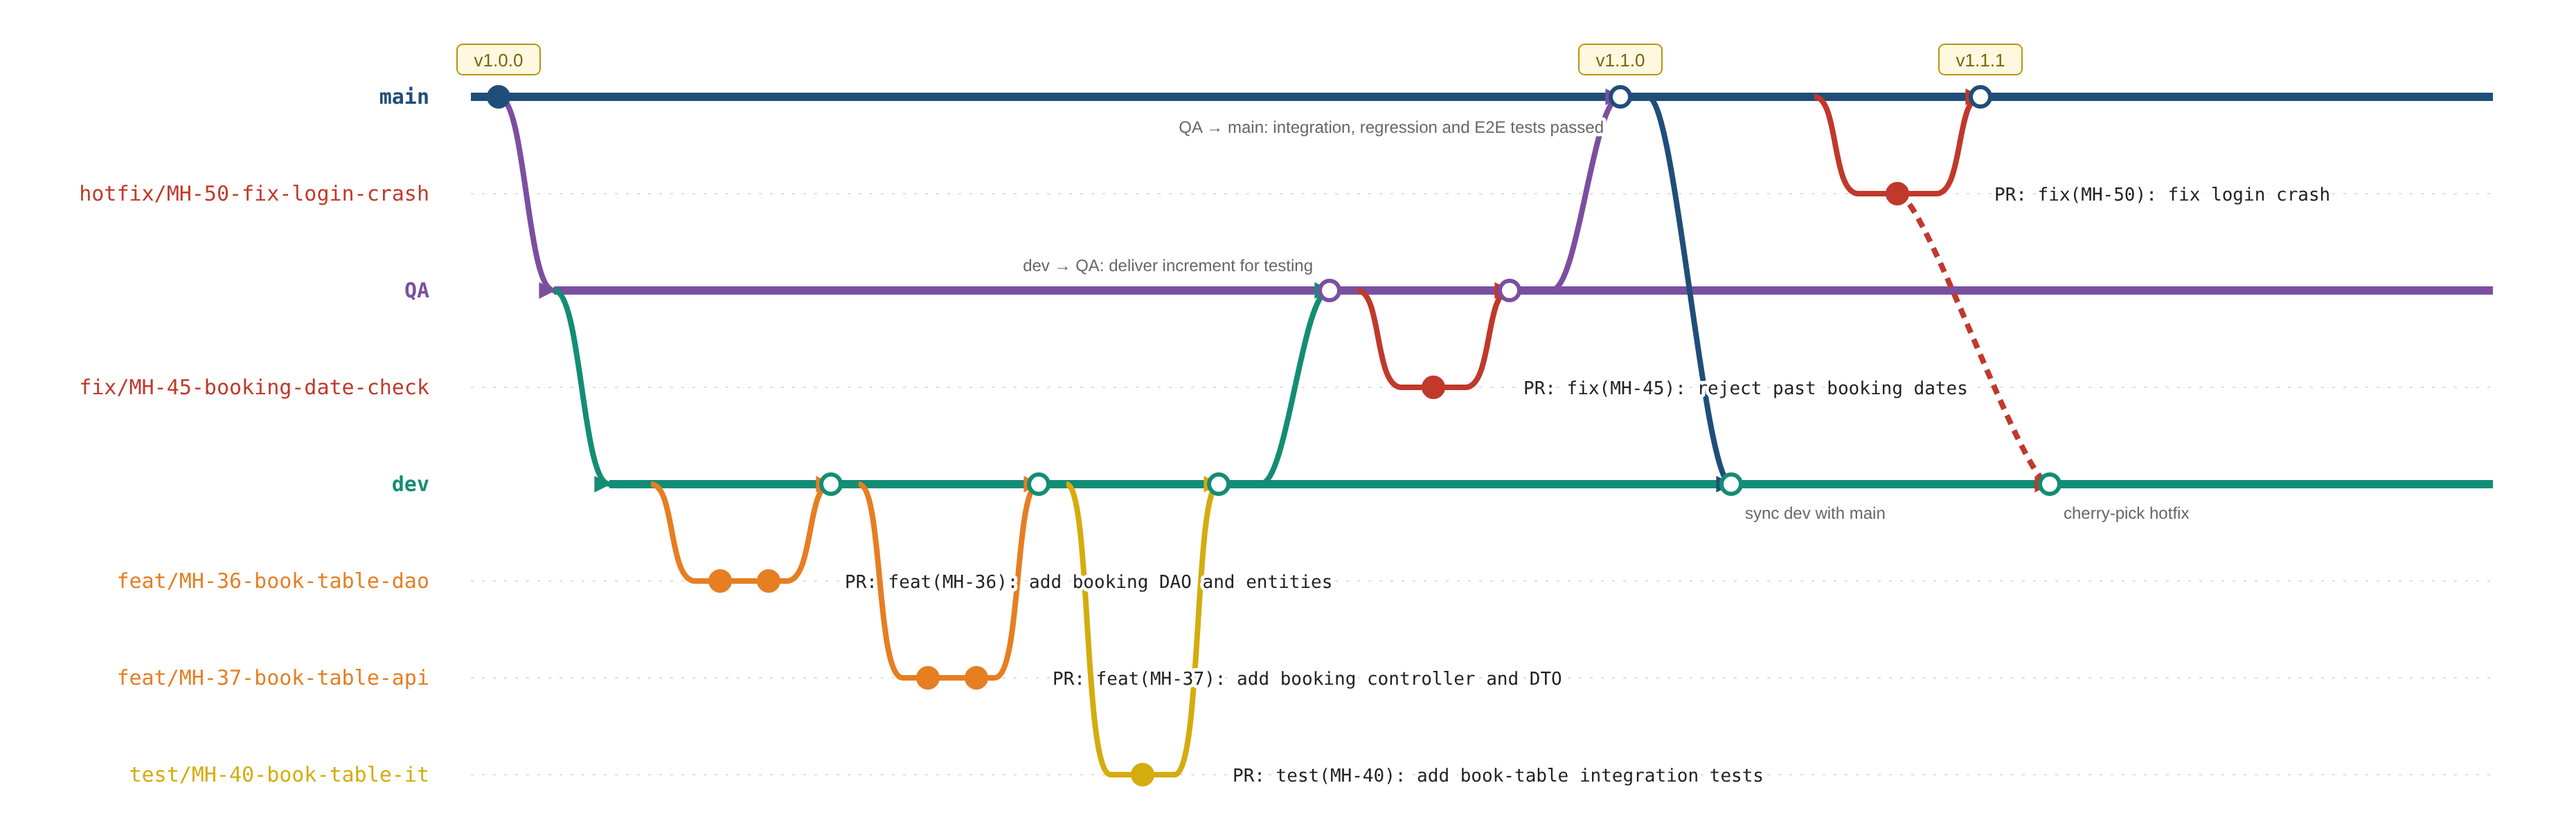
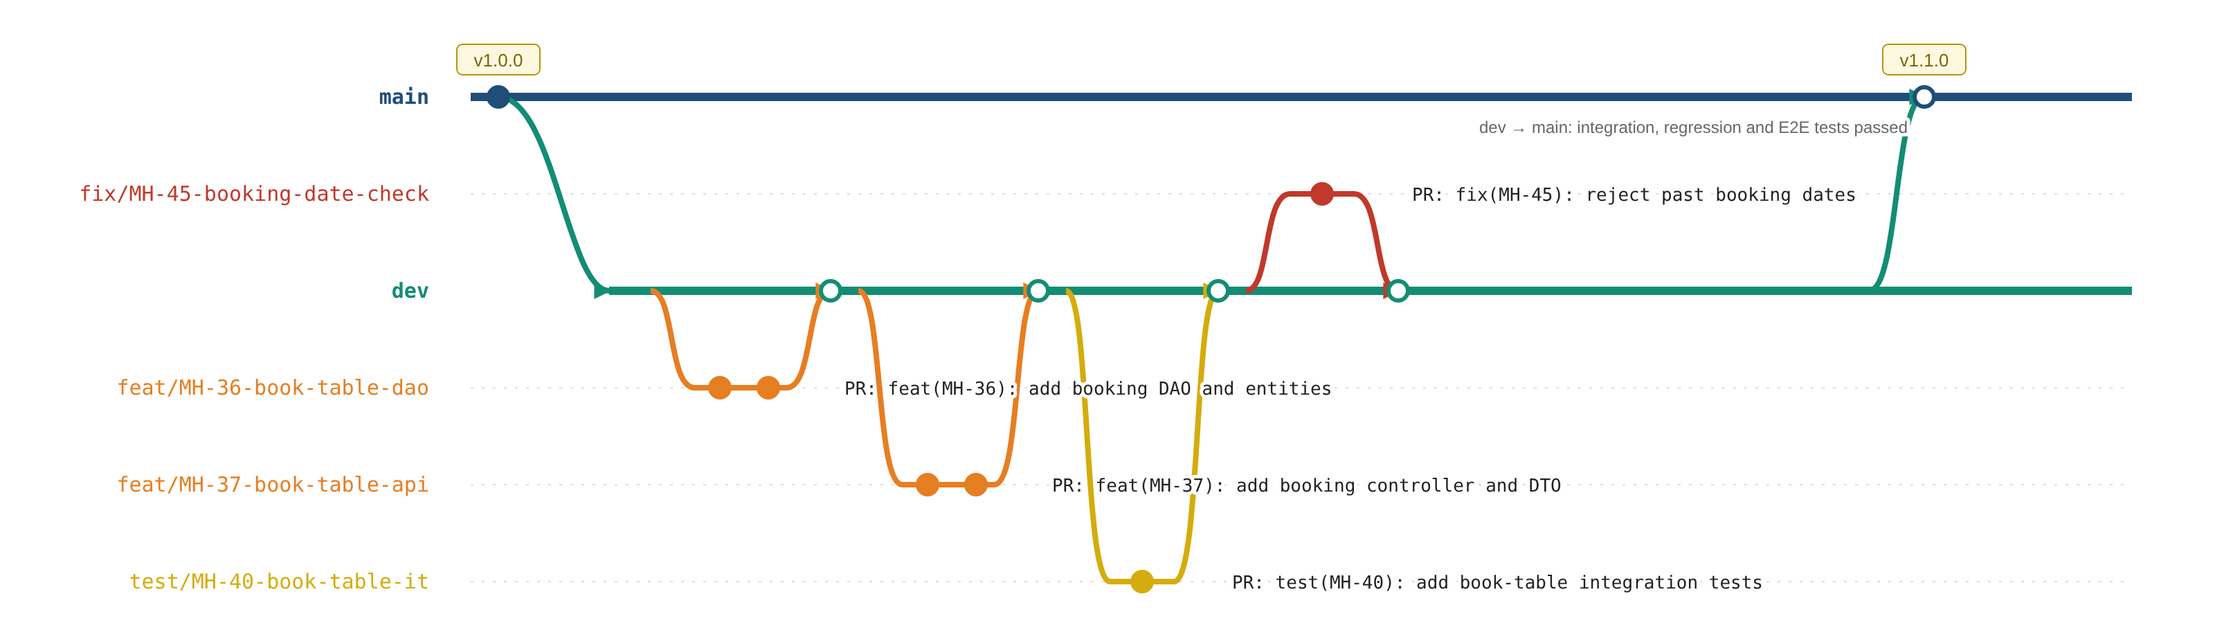
docs(workflow): switch to dev/main flow

diff --git a/docs/working-agreement.md b/docs/working-agreement.md
@@ -1,39 +1,58 @@
 # Working agreement
 
 ## Branches
-We use three long-lived branches, all protected: no direct pushes, every change goes through a PR.
+We use two long-lived branches. Both are protected: no direct pushes, every change goes through a PR with at least one approval and green CI.
 
 | Branch | Purpose |
 |---|---|
-| `dev` | Integration of completed tasks  |
-| `qa` | Quality control of the increment before release |
-| `main` | Stable version shown at the demo and released |
+| `dev` | Integration branch. Code is written on task branches and reaches `dev` only through a reviewed PR with green CI. Default branch of the repo. |
+| `main` | Only tested code, usable by the Product Owner. Shown at the demo and released. |
 
-![Branching workflow with dev, QA and main branches](./img/gitflow.png)
+![Branching workflow with dev and main branches](./img/gitflow.png)
 
-### Flow
-1. **Develop**: create the task branch from `dev`, open a PR into `dev`.
-2. **Deliver to QA**: when all the stories selected for the demo are merged, open a PR `dev` → `QA`.
-3. **Test on QA**: run integration, regression and E2E tests, check the acceptance criteria and run the Docker image on more than one PC. Fix bugs with a `fix/` branch from `QA`, merged back into `QA`.
-4. **Release**: open a PR `QA` → `main` and tag the release (e.g. `v1.0.0`).
-5. **Sync**: open a PR `main` → `dev`.
+### Merge strategy
 
-Urgent bugs on `main` are fixed with a `hotfix/` branch from `main`, then cherry-picked into `dev` if needed.
+| PR | Merge method | Why |
+|---|---|---|
+| task branch → `dev` | **Squash and merge** | One commit per task on `dev` |
+| `dev` → `main` | **Merge commit** | Keeps the shared history between long-lived branches |
+
+The squash commit message is the PR title, so the PR title must follow Conventional Commits.
+
+### Sprint flow
+1. **Develop**: each task branch is created from `dev` and merged into `dev` through a PR.
+2. **Release**: when all the stories selected for the demo are Done, run the full test suite on `dev`, manually test the selected stories, and build and run the Docker image on at least two different PCs. Then open a PR `dev` → `main` and tag the release (e.g. `v1.0.0`).
+
+**Timing**: the release must be merged into `main` before Friday 8:30 of the demo day; after that, no commits and no updates on YouTrack.
+
 Merged branches are deleted.
 
+## Definition of Done
+A story is **Done** when:
+- [ ] all its tasks are merged into `dev` through reviewed PRs with green CI (code reviewed, code pushed on GitHub)
+- [ ] every layer has unit tests
+- [ ] the DAO and Route integration tests pass in `dev`
+- [ ] the story's E2E tests exist, cover every acceptance criterion and pass in `dev`
+
+A bug found in `dev` reopens the story until its fix is merged into `dev`.
+
+## Branch naming
 Each task branch corresponds to one YouTrack task and is named `<type>/MH-<id>-<short-description>`:
-  - `<type>`: same types as Conventional Commits (see below)
-  - `MH-<id>`: the ID of the YouTrack task, so the branch can be traced back to it
-  - `<short-description>`: a few words, lowercase, kebab-case, no personal names
+- `<type>`: same types as Conventional Commits (see below)
+- `MH-<id>`: the ID of the YouTrack task, so the branch can be traced back to it
+- `<short-description>`: a few words, lowercase, kebab-case, no personal names, no `/`
 
 Examples:
 
-    docs/MH-32-book-table-api-spec
-    feat/MH-36-book-table-dao-entities
-    feat/MH-37-book-table-controller-dto
-    feat/MH-38-book-table-api-route
+    feat/MH-33-book-table-db-update
+    feat/MH-36-book-table-dao
+    feat/MH-37-book-table-controller
+    feat/MH-38-book-table-route
     feat/MH-31-book-table-ui
-    test/MH-40-book-table-integration-tests
+    test/MH-39-book-table-dao-integration
+    test/MH-40-book-table-route-integration
+    test/MH-41-book-table-e2e
+    fix/MH-50-booking-capacity-off-by-one
 
 ## Commits
 We follow [Conventional Commits](https://www.conventionalcommits.org/en/v1.0.0/).
@@ -43,22 +62,24 @@ We follow [Conventional Commits](https://www.conventionalcommits.org/en/v1.0.0/)
 - Types: `feat`, `fix`, `docs`, `test`, `refactor`, `build`, `ci`, `chore`
 - Scope: the part of the project involved, e.g. `backend`, `frontend`, `db`, `docs`
 - Imperative, lowercase, no final period
+- Commits on task branches are squashed into the PR title when merged, so the commits in `dev` use the YouTrack task ID as scope (see [Pull requests](#pull-requests)).
 
 Examples:
 
-    feat(backend): add booking DAO and entities
+    feat(backend): add booking DAO
     test(backend): add unit tests for booking controller
     fix(frontend): show error when no table is available
     docs(api): describe book-a-table endpoint
 
 ## Pull requests
-- Title in Conventional Commits format, with the YouTrack task ID as scope: `feat(MH-37): add booking controller and DTO`.
-- Description follows the PR template of the target branch, in `.github/PULL_REQUEST_TEMPLATE/`.
-  - Task branch → `dev`: `to-dev.md`
-  - `QA` → `main`: `to-main.md`
-  - Other PRs (`dev` → `QA`, `main` → `dev`): no template.
-- At least one approval from a teammate and CI passing before merging.
-- One PR per task. Use **Squash and merge** if the PR has many work-in-progress commits.
+- Title in Conventional Commits format, with the YouTrack task ID as scope: `feat(MH-37): add booking controller`.
+- The description follows the PR template of the target branch, in `.github/PULL_REQUEST_TEMPLATE/`:
+  - task branch → `dev`: `to-dev.md`
+  - `dev` → `main`: `to-main.md`
+- At least one approval from someone who is not the author, and CI green, before merging.
+- One PR per task.
+- The person merging checks that the merge method matches the table in "Merge strategy".
 
 ## Documentation
 - Docs live in the repo as Markdown and are reviewed like code.
+- `api.md`, `database.md` and `architecture.md` are part of the contract: they must always match the code in `dev`.
